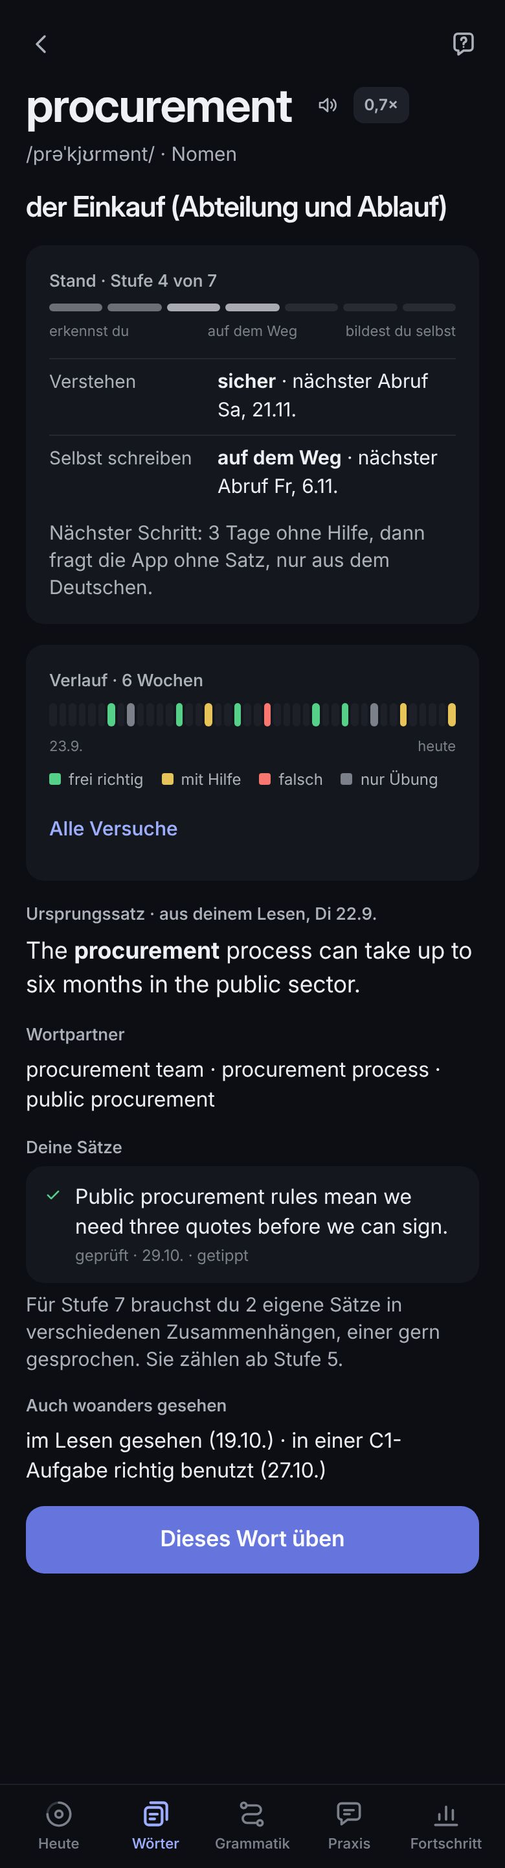
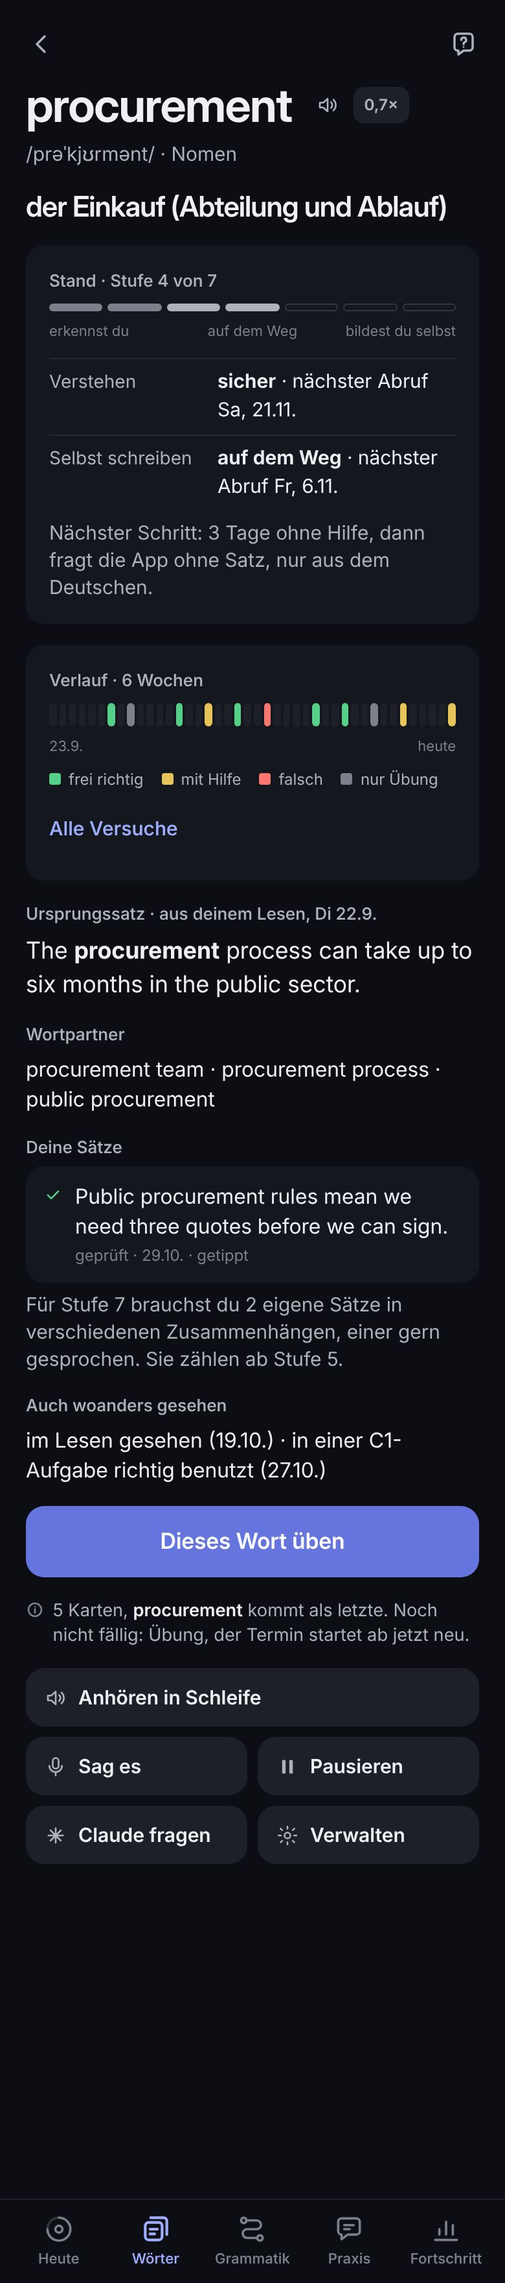
VB fertig: UX-Befunde Satz 2 eingearbeitet, Bericht mit offenen Fragen
Claude-Session: https://claude.ai/code/session_01JA41d6qQULedxVLfzkr6GX

diff --git a/docs/umbau/vokabeln/bilder/src/vb-screens.js b/docs/umbau/vokabeln/bilder/src/vb-screens.js
@@ -152,7 +152,7 @@ function vbPhone(v) {
       '<div class="card stack s8"><div class="lbl">Deutsch-Falle</div>' +
       '<div class="vb-pair"><b class="en">eventually</b><span>≠ eventuell</span><span class="vb-tag">kommt als Kontrast</span></div>' +
       '<p class="p2" style="margin:0">Kam 2-mal falsch in 30 Tagen. Die Kontrastkarte kommt in deiner nächsten Wörter-Runde.</p></div>' +
-      '<button class="btn pri full" id="ws-go">Paar jetzt üben</button></div>' + tabbar('h12');
+      '<button class="btn pri full" id="ws-go">affect üben</button></div>' + tabbar('h12');
   }
   /* ---------- B13 Muster mit Präposition (M78) ---------- */
   if (v === 'pattern') {
@@ -176,7 +176,7 @@ function vbPhone(v) {
       '<div class="stagec">' + VB.procSent(gapHtml('', { caret: true, input: true })) +
       '<div class="hintline">Gesucht: Einkauf (die Abteilung)</div></div></div>' + VB.tipBtns() +
       '<div class="scrim" style="background:transparent"></div><div class="menu vb-menu" id="ex-menu" role="menu">' +
-      '<div class="vb-whytoday"><div class="lbl">Warum heute?</div><p>Fällig seit 2 Tagen. Zuletzt richtig am 20.10., seitdem sinkt die Chance, dass du es noch weißt.</p><span>Selbst schreiben · Stufe 4 von 7</span></div><hr>' +
+      '<div class="vb-whytoday"><div class="lbl">Warum heute?</div><p>Fällig seit 2 Tagen. Selbst geschrieben zuletzt frei richtig am 20.10.; seitdem sinkt die Chance, dass du es noch weißt.</p><span>Selbst schreiben · Stufe 4 von 7</span></div><hr>' +
       '<button role="menuitem">' + ic('claude', 'sm') + 'Claude fragen</button>' +
       '<button role="menuitem">' + ic('trans', 'sm') + 'Übersetzer</button>' +
       '<button role="menuitem">' + ic('up', 'sm') + 'Zu leicht · kenne ich längst</button>' +
@@ -240,12 +240,13 @@ reg('vbh', {
     if (v !== 'card') {
       S.ui = {};
       /* Wörter-Block mit geschätzter Zeit aus dem Planer (14 statt fest 7 Min.); Ring und Summe rechnen mit. */
-      const orig = dayBlocks;
+      const orig = dayBlocks, origW = weekStrip;
       dayBlocks = kind => orig(kind).map(x => x.n === 'Wörter' ? Object.assign({}, x, { m: 14 }) : x);
+      weekStrip = (done) => origW(done, 1); /* heute = Di, 3.11. */
       try {
         return SCREENS.h1.render(v === 'ring' ? 'ring' : 'start')
           .replace(/(<span class="nm">Wörter<\/span><span class="sm num">)14 Min\./, (m, a) => v === 'ring' ? m : a + 'ca. 14 Min.');
-      } finally { dayBlocks = orig; }
+      } finally { dayBlocks = orig; weekStrip = origW; }
     }
     const b = VB.blocks();
     const lines = [['w', 'Gestern-Check', '3 Min.', 'done'], ['w', 'Wörter', 'ca. 14 Min.', 'next', '11 fällig · 3 neu · Anwenden'], ['g', 'Grammatik', '5 Min.'], ['l', 'Hören', '4 Min.'], ['s', 'Sag es', '4 Min.']];
@@ -318,7 +319,7 @@ function vbDetail(v) {
     '<div class="stack s6"><div class="lbl">Deine Sätze</div><div class="vb-own"><span class="vb-ok">' + ic('check', 'xs') + '</span><p class="en">Public procurement rules mean we need three quotes before we can sign.</p><span class="vb-ownm">geprüft · 29.10. · getippt</span></div>' +
     '<p class="p2" style="margin:0">Für Stufe 7 brauchst du 2 eigene Sätze in verschiedenen Zusammenhängen, einer gern gesprochen. Sie zählen ab Stufe 5.</p></div>' +
     '<div class="stack s6"><div class="lbl">Auch woanders gesehen</div><p class="p" style="margin:0">im Lesen gesehen (19.10.) · in einer C1-Aufgabe richtig benutzt (27.10.)</p></div>' +
-    '<button class="btn pri full">Dieses Wort üben</button></div>' + tabbar('h12');
+    wordActions().replace(/lead time/g, 'procurement') + '</div>' + tabbar('h12');
 }
 reg('vbd', { code: 'VBD', name: 'Wort-Detail (Entwurf)', kind: 'phone', variants: [['main', 'B2 Detail'], ['history', 'N5 Verlauf']], render: vbDetail });
 reg('vbdl', {
@@ -340,16 +341,17 @@ reg('vbdl', {
 
 /* B1 Dashboard: H34 Wörter + Karte „Die nächsten 14 Tage“ + Behaltensrate (N7) */
 function vbDash() {
-  const days = [['Di', 15, 1], ['Mi', 14], ['Do', 15], ['Fr', 13], ['Sa', 14], ['So', 0, 0, 1], ['Mo', 15], ['Di', 14], ['Mi', 15], ['Do', 14], ['Fr', 13], ['Sa', 15], ['So', 0, 0, 1], ['Mo', 14]];
+  const days = [['Di', 14, 1], ['Mi', 12], ['Do', 15], ['Fr', 13], ['Sa', 14], ['So', 0, 0, 1], ['Mo', 15], ['Di', 14], ['Mi', 15], ['Do', 14], ['Fr', 13], ['Sa', 15], ['So', 0, 0, 1], ['Mo', 14]];
   const fc = '<div class="card stack s8"><div class="lbl">Die nächsten 14 Tage · Minuten Wörter</div>' +
     '<div class="vb-fc" role="img" aria-label="Lernzeit je Tag, gleichmäßig um 14 Minuten, sonntags Ruhetag">' + days.map(d => '<div class="' + (d[2] ? 'on' : '') + (d[3] ? ' rest' : '') + '"><b class="num">' + (d[3] ? '–' : d[1]) + '</b><i style="height:' + (d[3] ? 3 : d[1] * 4) + 'px"></i><span>' + d[0] + '</span></div>').join('') + '</div>' +
     '<p class="p2" style="margin:0">Gleichmäßig um 14 Min., deine Zielzeit ist 15. Sonntag ist Ruhetag.</p></div>';
   const ret = '<div class="card stack s8"><div class="lbl">Behaltensrate · letzte 30 Tage</div><div class="ts-bign"><b class="disp num">89 %</b><span>Ziel 90 %</span></div>' +
     '<div class="vb-rt"><div><span>gefestigt</span><b class="num">93 %</b></div><div><span>jung</span><b class="num">86 %</b></div></div>' +
-    '<p class="p2" style="margin:0">So oft wusstest du ein fälliges Wort beim ersten Versuch. Passt zum Ziel.</p></div>';
-  const counts = '<div class="card stack s16"><div class="vb-two"><div><b class="disp num">46</b><span>bildest du selbst</span></div><div><b class="disp num">491</b><span>in deinem Wortschatz</span></div></div>' +
-    '<div class="ts-leg"><div><span class="ts-sw f5"></span><span>Bildest du selbst <em>S6–S7</em></span><b class="num">46</b></div><div><span class="ts-sw f34"></span><span>Auf dem Weg <em>S3–S5</em></span><b class="num">58</b></div><div><span class="ts-sw out"></span><span>Erkennst du <em>S1–S2</em></span><b class="num">387</b></div><div class="tot"><span></span><span>Alle Wörter</span><b class="num">491</b></div></div></div>';
-  return tsPage('h14-main', gearBtn(), tsProgNav('words') + tsTitle('Wörter', 'Gezählt wird nur, was du frei abrufst. Auswählen zählt nicht.') + counts + fc + ret, 'h14');
+    '<p class="p2" style="margin:0">So oft wusstest du ein fälliges Wort beim ersten Versuch. Knapp am Ziel.</p></div>';
+  const counts = '<div class="card stack s16"><div class="ts-bign"><b class="disp num">38</b><span>bildest du selbst</span></div>' +
+    '<div class="ts-leg"><div><span class="ts-sw f5"></span><span>Bildest du selbst <em>S6–S7</em></span><b class="num">38</b></div><div><span class="ts-sw f34"></span><span>Auf dem Weg <em>S3–S5</em></span><b class="num">41</b></div><div><span class="ts-sw out"></span><span>Erkennst du <em>S1–S2</em></span><b class="num">412</b></div><div class="tot"><span></span><span>Alle Wörter</span><b class="num">491</b></div></div></div>';
+  const w = tsWords(), z = w.indexOf('<div class="card stack s8"><div class="lbl">Zuwachs');
+  return tsPage('h14-main', gearBtn(), tsProgNav('words') + tsTitle('Wörter', 'Gezählt wird nur, was du frei abrufst. Auswählen zählt nicht.') + counts + fc + ret + (z > 0 ? w.slice(z) : ''), 'h14');
 }
 function vbDashAlt() {
   /* N7 mit Hinweis bei mehr als 5 Punkten Abweichung */
@@ -367,12 +369,12 @@ function vbApply(v) {
   const lage = '<div class="card stack s8"><div class="lbl">Mail an einen Kunden · freundlich, klar</div><p class="p" style="margin:0">Sag Mark, dass sich der Rollout auf nächste Woche verschiebt, weil die neuen Scanner länger brauchen, und bitte ihn, die Bestellung bis Freitag freizugeben.</p></div>';
   if (v === 'task') {
     return top + '<div class="stack s16" style="padding-top:16px">' + lage + VB.chips() +
-      '<div class="field en" style="min-height:150px">' + VB.mail + '<span class="caret" style="display:inline-block;width:2px;height:1em;background:var(--act-text);vertical-align:-2px;margin-left:1px"></span></div></div></div>' +
+      '<div class="field en vb-field">' + VB.mail + '<span class="caret" style="display:inline-block;width:2px;height:1em;background:var(--act-text);vertical-align:-2px;margin-left:1px"></span></div></div></div>' +
       exFoot('<button class="btn sec" aria-label="Diktieren">' + ic('mic', 'sm') + '</button>' + btnPri('apply-check', 'Prüfen'), true) + drawnKbd({ go: 'return' });
   }
   if (v === 'feedback') {
     const rows = [['near', 'postpone', 'Wort richtig, Präposition nicht: verschieben <i>auf</i> = <b>postpone to</b> oder <b>until next week</b>, nicht <i>on</i>.'], ['ok', 'lead time', 'richtig: die Zeit bis zur Lieferung.'], ['ok', 'sign off on', 'richtig: freigeben. Im US-Englisch meist <b>sign off on the order</b>; ohne <i>on</i> ist es britisch üblich und auch richtig.']];
-    return exTop(VB.blocks(), 1, 0.95) + '<div class="ex-body gx">' + blockLine('w', 'Wörter · <b>Anwenden</b> · geprüft von Claude') +
+    return exTop(VB.blocks(), 1, 0.95) + '<div class="ex-body gx">' + blockLine('w', 'Wörter · <b>Anwenden</b> · geprüft von Claude') + instr('Schreib 2–4 Sätze und benutze die drei Wörter.') +
       '<div class="stack s16" style="padding-top:14px">' + VB.chips(['near', 'ok', 'ok']) +
       '<div class="card en" style="font-size:16px;line-height:24px">Hi Mark, we have to <u class="vb-unear">postpone</u> the rollout <u class="vb-unear">on</u> next week. The <u class="vb-uok">lead time</u> for the new scanners is longer than planned. Could your team <u class="vb-uok">sign off</u> the order by Friday?</div>' +
       '<div class="card" style="padding:4px 16px">' + rows.map(r => '<div class="st vb-fr"><span class="vb-fi ' + r[0] + '">' + ic({ ok: 'check', near: 'near' }[r[0]], 'xs') + '</span><span class="vb-hrt"><b class="en">' + r[1] + '</b><span>' + r[2] + '</span></span></div>').join('') + '</div>' +
@@ -381,8 +383,8 @@ function vbApply(v) {
       exFoot(btnSec('apply-again', 'Nochmal selbst schreiben') + btnPri('apply-next', 'Weiter'));
   }
   /* offline: ohne Claude */
-  return exTop(VB.blocks(), 1, 0.95) + '<div class="ex-body gx">' + blockLine('w', 'Wörter · <b>Anwenden</b> · ohne Claude') +
-    '<div class="stack s16" style="padding-top:14px"><div class="notice">' + ic('offline', 'sm') + '<span><b>Claude ist gerade nicht erreichbar.</b> Vergleich selbst mit dem Muster. Das zählt nicht für den Plan, deine Termine bleiben.</span></div>' +
+  return exTop(VB.blocks(), 1, 0.95) + '<div class="ex-body gx">' + blockLine('w', 'Wörter · <b>Anwenden</b> · ohne Claude') + instr('Schreib 2–4 Sätze und benutze die drei Wörter.') +
+    '<div class="stack s16" style="padding-top:14px"><div class="notice">' + ic('offline', 'sm') + '<span><b>Claude ist gerade nicht erreichbar.</b> Vergleich selbst mit dem Muster. Deine Pflicht zählt trotzdem, nur die Termine der Wörter bleiben, wie sie sind.</span></div>' +
     '<div class="stack s6"><div class="lbl">Dein Text</div><p class="p en" style="margin:0">' + VB.mail + '</p></div>' +
     '<div class="card stack s8"><div class="lbl">Muster</div><p class="p en" style="margin:0">Hi Mark, we need to <b>postpone</b> the rollout <b>until</b> next week. The <b>lead time</b> for the new scanners is longer than expected. Could your team <b>sign off on</b> the order by Friday?</p></div>' +
     '<p class="p2" style="margin:0">Achte auf die fett gedruckten Wörter: Steht bei dir dasselbe?</p></div></div>' +
@@ -396,17 +398,17 @@ function vbOwn(v) {
   const lage = '<div class="card stack s8"><div class="lbl">Lage · im Call mit einem Kunden</div><p class="p" style="margin:0">Der Kunde fragt, warum die Umstellung nur drei Monate dauert. Erkläre, was ihr nutzt.</p></div>';
   const txt = 'We can leverage our existing templates, so the migration only takes three months.';
   if (v === 'task') {
-    return top + '<div class="stack s16" style="padding-top:16px">' + lage + '<div class="field en" style="min-height:120px">' + txt + '<span class="caret" style="display:inline-block;width:2px;height:1em;background:var(--act-text);vertical-align:-2px;margin-left:1px"></span></div>' +
-      '<p class="vb-quiet">' + ic('info', 'xs') + '<span>Nicht zu nah am Beispielsatz und nicht zu allgemein, sonst zählt er nicht.</span></p></div></div>' +
+    return top + '<div class="stack s16" style="padding-top:16px">' + lage + '<p class="vb-quiet">' + ic('info', 'xs') + '<span>Nicht zu nah am Beispiel, nicht zu allgemein.</span></p><div class="field en" style="min-height:120px">' + txt + '<span class="caret" style="display:inline-block;width:2px;height:1em;background:var(--act-text);vertical-align:-2px;margin-left:1px"></span></div>' +
+      '</div></div>' +
       exFoot('<button class="btn sec" aria-label="Diktieren">' + ic('mic', 'sm') + '</button>' + btnPri('own-check', 'Prüfen'), true) + drawnKbd({ go: 'return' });
   }
   if (v === 'noai') {
-    return top + '<div class="stack s16" style="padding-top:16px"><div class="notice">' + ic('offline', 'sm') + '<span><b>Claude ist gerade nicht erreichbar.</b> Vergleich selbst. Zählt nicht für Stufe 7, deine Termine bleiben.</span></div>' +
+    return top + '<div class="stack s16" style="padding-top:16px"><div class="notice">' + ic('offline', 'sm') + '<span><b>Claude ist gerade nicht erreichbar.</b> Vergleich selbst. Deine Pflicht zählt trotzdem; für Stufe 7 zählt der Satz erst nach einer Prüfung.</span></div>' +
       '<div class="stack s6"><div class="lbl">Dein Satz</div><p class="p en" style="margin:0">' + txt + '</p></div>' +
       '<div class="card stack s8"><div class="lbl">So benutzt man es</div><p class="p en" style="margin:0"><b>leverage</b> + etwas, das man schon hat: <i>leverage our experience, our data, existing templates</i></p></div></div></div>' +
       exFoot(btnSec('own-later', 'Später prüfen lassen') + btnPri('own-next', 'Weiter'));
   }
-  return exTop(VB.blocks(), 1, 0.75) + '<div class="ex-body gx' + '">' + blockLine('w', 'Wörter · <b>Eigener Satz</b> · geprüft von Claude') +
+  return exTop(VB.blocks(), 1, 0.75) + '<div class="ex-body gx' + '">' + blockLine('w', 'Wörter · <b>Eigener Satz</b> · geprüft von Claude') + instr('Schreib oder sag einen eigenen Satz mit <span class="en">leverage</span>.') +
     '<div class="stack s16" style="padding-top:14px"><div class="card en" style="font-size:17px;line-height:25px">We can <u class="vb-uok">leverage</u> our existing templates, so the migration only takes three months.</div>' +
     '<div class="card" style="padding:4px 16px">' +
     [['ok', 'Richtiger Sinn', '<span class="en">leverage</span> = etwas Vorhandenes gezielt nutzen. Passt.'], ['ok', 'Natürlich', 'So sagt man es im Call.'], ['ok', 'Wortpartner', '<span class="en">leverage existing templates</span> ist eine typische Verbindung.']]
@@ -423,10 +425,10 @@ function vbSettings() {
   return '<header class="phead gx"><div class="tw-hl"><button class="iconbtn" aria-label="Zurück" style="margin-left:-10px;margin-right:0">' + ic('chevL') + '</button><h1 class="disp">Wörter</h1></div></header>' +
     '<div class="scroll gx stack s24" style="padding-bottom:24px">' +
     '<div class="stack s8"><div class="lbl">Zielzeit für den Wörter-Block</div>' + seg(['10', '15', '20', '30'], 1) + '<p class="p2" style="margin:0">Minuten am Tag. Die App verteilt Wiederholungen so, dass es jeden Tag ungefähr so viel ist.</p></div>' +
-    '<div class="stack s8"><div class="lbl">Neue Wörter pro Lerntag</div>' + seg(['0', '2', '5', '10'], 2) + '<p class="p2" style="margin:0">Mindestens 2 kommen an jedem Lerntag, auch wenn viel fällig ist. Nur bei 0 keine.</p></div>' +
+    '<div class="stack s8"><div class="lbl">Neue Wörter pro Lerntag</div>' + seg(['0', '2', '5', '10'], 2) + '<p class="p2" style="margin:0">Bis zu so viele, wie in deine Zielzeit passen. Mindestens 2 an jedem Lerntag, auch wenn viel fällig ist; nur bei 0 keine.</p></div>' +
     '<div class="stack s8"><div class="lbl">Wie sicher sollen die Wörter sitzen?</div>' +
     '<div class="vb-safe">' + [['85 %', 'ca. 11 Min.', 0], ['90 %', 'ca. 15 Min.', 1], ['95 %', 'ca. 24 Min.', 0]].map(x => '<button class="' + (x[2] ? 'on' : '') + '"><b class="num">' + x[0] + '</b><span>' + x[1] + '</span></button>').join('') + '</div>' +
-    '<p class="p2" style="margin:0">Mehr Sicherheit heißt öfter wiederholen. Die Minuten gelten für deine 491 Wörter.</p></div>' +
-    '<div class="card" style="padding:4px 16px">' + sw('Anki-Modus', 'Aufdecken und selbst bewerten · wirkt nur auf Verstehen', false) + sw('Satz vor dem Prüfen anhören', 'Lücke als kurzer Ton', true) + '</div></div>' + tabbar('h12');
+    '<p class="p2" style="margin:0">Mehr Sicherheit heißt öfter wiederholen; die Minuten gelten für deine 491 Wörter. Deine Zielzeit hat Vorrang: Reicht sie nicht, kommen weniger neue Wörter (mindestens 2).</p></div>' +
+    '<div class="card" style="padding:4px 16px">' + sw('Anki-Modus', 'Aufdecken und selbst bewerten · wirkt nur auf Verstehen', false) + sw('Satz vor dem Prüfen anhören', 'Lücke als kurzer Ton', true) + '</div></div>' + tabbar('h14');
 }
 reg('vbe', { code: 'VBE', name: 'Einstellungen Wörter (Entwurf)', kind: 'phone', variants: [['main', 'B9']], render: vbSettings });

diff --git a/docs/umbau/vokabeln/bilder/src/vb.css b/docs/umbau/vokabeln/bilder/src/vb.css
@@ -28,7 +28,7 @@
 .vb-pair > span:not(.vb-tag) { font-size: 14px; }
 .vb-pair span { color: var(--fg-2); font-size: 15px; }
 .vb-tag { margin-left: auto; font-size: 13px !important; font-weight: 550; color: var(--fg-3) !important; white-space: nowrap; }
-.vb-tag.off { color: var(--fg-3) !important; background: var(--surface-2); }
+.vb-tag.off { color: var(--fg-3) !important; }
 .vb-menu { width: 300px; }
 .vb-whytoday { padding: 10px 12px 8px; display: flex; flex-direction: column; gap: 4px; }
 .vb-whytoday p { margin: 0; font-size: 15px; line-height: 21px; }
@@ -53,9 +53,10 @@
 .vb-dlt { display: flex; flex-direction: column; gap: 1px; font-size: 16px; line-height: 22px; }
 .vb-dlt .lbl { font-size: 12px; }
 .vb-stages { display: flex; gap: 4px; }
-.vb-stages i { flex: 1; height: 6px; border-radius: 3px; background: var(--surface-3); }
-.vb-stages i.on.g1 { background: color-mix(in oklch, var(--fg) 38%, var(--surface-3)); }
-.vb-stages i.on.g2 { background: color-mix(in oklch, var(--fg) 68%, var(--surface-3)); }
+.vb-stages i { flex: 1; height: 6px; border-radius: 3px; background: transparent; box-shadow: 0 0 0 1px var(--line-2) inset; }
+.vb-stages i.on { box-shadow: none; }
+.vb-stages i.on.g1 { background: var(--fg-3); }
+.vb-stages i.on.g2 { background: var(--fg-2); }
 .vb-stages i.on.g3 { background: var(--fg); }
 .vb-dband { gap: .5em; }
 .vb-dband .vb-mrow { grid-template-columns: 8em 1fr; }
@@ -88,10 +89,10 @@
 .vb-ok { color: var(--ok); margin-top: 3px; }
 .vb-fc { display: grid; grid-template-columns: repeat(14, 1fr); gap: 3px; align-items: end; padding-top: 6px; }
 .vb-fc div { display: flex; flex-direction: column; align-items: center; gap: 4px; }
-.vb-fc b { font-size: 10px; font-weight: 600; color: var(--fg-3); }
+.vb-fc b { font-size: 11px; font-weight: 650; color: var(--fg-2); }
 .vb-fc i { width: 100%; border-radius: 4px; background: var(--surface-3); }
 .vb-fc div.on i { background: var(--act); } .vb-fc div.on b, .vb-fc div.on span { color: var(--fg); }
-.vb-fc span { font-size: 10px; color: var(--fg-3); }
+.vb-fc span { font-size: 11px; color: var(--fg-2); }
 .vb-rt { display: grid; grid-template-columns: 1fr 1fr; gap: 8px; }
 .vb-rt div { display: flex; justify-content: space-between; padding: 10px 12px; border-radius: 10px; background: var(--surface-2); font-size: 14px; }
 .vb-rt span { color: var(--fg-2); }
@@ -119,3 +120,4 @@
 [data-mode="light"] .band.s-ok, [data-mode="light"] .dverdict.s-ok { background: color-mix(in srgb, var(--surface) 90%, var(--ok)); }
 [data-mode="light"] .band.s-near, [data-mode="light"] .dverdict.s-near { background: color-mix(in srgb, var(--surface) 86%, var(--near)); }
 [data-mode="light"] .band.s-bad, [data-mode="light"] .dverdict.s-bad { background: color-mix(in srgb, var(--surface) 91%, var(--bad)); }
+.vb-field { height: 128px; min-height: 0; overflow: hidden; -webkit-mask-image: linear-gradient(to bottom, #000 78%, transparent); mask-image: linear-gradient(to bottom, #000 78%, transparent); }

diff --git a/docs/umbau/berichte/vb.md b/docs/umbau/berichte/vb.md
@@ -2,29 +2,51 @@
 
 Stand 01.11.2026 · Zweig `claude/umbau-vb` (vom Stand `731cabf` auf `claude/umbau-fokus`) · Auftrag `docs/umbau/auftraege/vb.md`
 
-**Zwischenstand: Satz 1 fertig (vor V3).** Prüfung english-teacher und ux-reviewer läuft; Korrekturen und Satz 2 folgen in diesem Zweig.
-
 ## Kurzfassung für Emrah
-1. Die ersten 24 Bilder der neuen Wörter-Übung sind fertig, im Aussehen der Vorschau, die du abgenommen hast.
-2. Neu ist vor allem das Ergebnis-Band: Es zeigt bei einem Tippfehler genau den fehlenden Buchstaben, immer ein „Warum“, zwei Wortpartner und wann das Wort wiederkommt.
-3. Neue Wörter versuchst du erst kurz selbst, dann deckst du auf; „Kenne ich schon“ wird mit einer kurzen Probe geprüft.
-4. Dazu: „Das wusste ich eigentlich“, der Fall „Wort richtig, Partner falsch“, Kontrastkarten für Verwechsler, „Warum heute?“ im Menü, der Wörter-Start mit Minuten, der Abschluss und die ruhige Rückkehr nach einer Pause.
-5. Die Übersicht mit allen Bildern steht in `docs/umbau/vokabeln/bilder/README.md`.
+1. Du kannst jetzt 39 Bilder der neuen Wörter-App ansehen, bevor sie gebaut wird. Sie sehen aus wie die Vorschau, die du abgenommen hast.
+2. In der Übung siehst du nach jeder Antwort ein Band. Es zeigt bei einem Tippfehler genau den fehlenden Buchstaben und immer ein „Warum“, auch wenn du richtig liegst. Dazu kommen zwei Wortpartner und der Tag, an dem das Wort wiederkommt.
+3. Ein neues Wort versuchst du erst kurz selbst, dann deckst du es auf. Tippst du „Kenne ich schon“, prüft dich die App kurz.
+4. Dazu gibt es „Das wusste ich eigentlich“, den Fall „Wort richtig, Partner falsch“, Karten für Wörter, die man leicht verwechselt, und „Warum heute?“ im Menü. Auch der Start mit Minuten, der Abschluss und eine ruhige Rückkehr nach einer Pause sind dabei.
+5. Auf der Seite eines Wortes siehst du getrennt, wie gut du es verstehst und wie gut du es selbst schreibst. Dazu kommen ein Balken mit 7 Stufen und ein Verlauf über 6 Wochen.
+6. In der Übersicht steht, wie viele Minuten die nächsten 14 Tage dauern und wie viel du wirklich behältst.
+7. Neu ist „Anwenden“: Du schreibst eine kurze Mail mit drei deiner Wörter, und Claude prüft jedes Wort einzeln. Ohne Claude vergleichst du selbst mit einem Muster. Deine Pflicht zählt dann trotzdem, deine Termine bleiben gleich.
+8. Wo ich mehr vorschlage als die Vorschau, liegen beide Fassungen nebeneinander. Die Übersicht steht in `docs/umbau/vokabeln/bilder/README.md`.
 
 ## ok
-ja (Satz 1), Prüfung läuft.
+**ja.** Alle Bilder aus dem Auftrag (Satz 1 und Satz 2) liegen vor. Der Lehrer hat zweimal gegengelesen und alles ist eingearbeitet. Dazu kamen eine UX-Prüfung und eine gezielte Nachprüfung, deren Befunde ebenfalls eingearbeitet sind. Kein Blocker.
 
 ## commit
-siehe Zweig `claude/umbau-vb`
+`bba67ba` (Zwischenstand), Endstand: letzter Commit auf `claude/umbau-vb` (Nachricht „VB fertig …“).
+
+## Was entstanden ist
+- `docs/umbau/vokabeln/bilder/README.md`: Bild → was es zeigt → Methode/Plan-Abschnitt → was Emrah entscheidet; dazu die Regeln, die über alle Bilder gleich gelten.
+- `docs/umbau/vokabeln/bilder/s1-*.jpg` (26), `s2-*.jpg` (13), `vergleich-*.jpg` (6, links Vorschau, rechts Vorschlag).
+- `docs/umbau/vokabeln/bilder/src/`: `vb-screens.js` und `vb.css` (die Entwürfe auf den Bausteinen der Vorschau), `build.mjs` (baut eine Datei ins Scratchpad, liest `docs/relaunch/vorschau/src` nur), `shoot.mjs` und `shots.json` (Fotos per Playwright), `vergleich.py` (Bildpaare). Kein App-Code, nichts außerhalb von `bilder/**` und diesem Bericht geändert, kein Artefakt veröffentlicht.
 
 ## befunde
-- (folgen nach english-teacher und ux-reviewer)
+1. **Hell-Modus: „fast richtig“ wird rosa statt gelb, auch in der Vorschau und vermutlich in der App** (ux-reviewer). Ursache: `color-mix(in oklch, var(--surface) 90%, var(--near))` mischt mit Weiß (`oklch(1 0 0)`, Farbton 0 = Rot) und zieht den Ton Richtung Rot. Damit ist das Band „fast“ in Hell kaum von „falsch“ zu unterscheiden. In den Bildern ist es mit `in srgb` gelöst (`vb.css`, Ende). **Für D5/V3:** die Zustandsflächen in `src/styles/parts/v-uebung.css`/`band.css` prüfen, die gleiche Mischung wie in `docs/relaunch/vorschau/src/style.css:276–278` (nur gemeldet, Besitz D5).
+2. Teile der Vorschau widersprechen dem Wörter-Plan und sind in den Bildern angepasst: „Zu leicht“ prüft nach **7** statt 30 Tagen (M16), die Stufen heißen S1–S7 statt S0–S5 (W2), die Wörter-Zeit auf Heute ist eine Schätzung (14 Min.) statt fest 7 Min. (B8).
+3. english-teacher, Durchgang 1: 15 Befunde, alle umgesetzt, z. B. eindeutige Lücken (renew/extend, eventually), „purchasing“ als „Auch richtig“, „make a presentation“ als Partner, Warum mit Wortart, keine Fachwörter („Spur Benutzen“ → „Selbst schreiben“). Durchgang 2: 12 Befunde, alle umgesetzt, z. B. *sign off the order* (ohne *on*) gilt als richtig (britisch üblich), dafür zeigt das Anwenden-Bild den typischen Fehler *postpone on next week* → *postpone to / until*. Neue Wörter von heute stehen nicht zugleich auf Stufe 4–6.
+4. ux-reviewer, Durchgang 1 (Satz 1): 6 Muss- und 9 Soll-Befunde, alle umgesetzt, z. B. „War das auch richtig?“ wieder in jedem Fehler-Band und „Das wusste ich eigentlich“ als ruhiger Link darunter; keine Lösung vor dem Prüfen; Lösung nach dem Aufdecken neutral statt grün; nur der falsche Teil rot; Zähler und Minuten stimmig. Nachprüfung Satz 1 und erste Prüfung Satz 2: 2 offene Stellen aus Satz 1 und 6 Muss- und 9 Soll-Befunde für Satz 2, alle umgesetzt, z. B. die Wochenleiste auf Di, das Wort-Detail mit allen Aktionen der Vorschau, das Dashboard mit einer großen Zahl wie die Vorschau und Zuwachs/Vorher-Nachher darunter, gleiche Minuten in allen Bildern (heute 14, morgen 12), die Regel „Zielzeit hat Vorrang“ in den Einstellungen und „Deine Pflicht zählt trotzdem“ ohne Claude.
 
 ## zahlen
-- Satz 1: 25 Bilder (390 px Dunkel, Lernkarte und Band zusätzlich Hell und Laptop 1440) + 5 Vergleiche Vorschau ↔ Vorschlag.
+- 39 Bilder: Satz 1 = 26, Satz 2 = 13, dazu 6 Vergleiche. Handy 390 px Dunkel. Lernkarte, Band und Wort-Detail zusätzlich in Hell und am Laptop 1440. Größe 5,4 MB (JPEG, Qualität 80).
+- Bildliste: `src/shots.json`. Alle Bilder entstehen in einem Lauf neu (ca. 1 Min.).
 
 ## nicht_gelaufen
-- (noch offen: Prüfungen, Satz 2)
+- Keine zweite UX-Nachprüfung der Satz-2-Korrekturen. Nach der Regel „eine Prüfung, eine gezielte Nachprüfung“ war die Nachprüfung schon mit der ersten Satz-2-Prüfung zusammengelegt. Ich habe die Korrekturen selbst an den neuen Bildern geprüft.
+- Kein Gedämpft-Modus und kein Englisch: Der Auftrag verlangt Dunkel, für die Lernkarte, das Band und das Wort-Detail zusätzlich Hell und 1440.
+- Keine App-Tests, weil es keinen App-Code gibt.
+- Ton, Diktat und Tastatur sind gezeichnet, nicht bedienbar (reine Bild-Entwürfe).
 
 ## offene_fragen
-- (folgen mit dem Endbericht)
+Je mit Empfehlung. Die Bilder sind mit der Empfehlung gebaut.
+1. **Neues Wort: erst kurz selbst versuchen, dann aufdecken** (`s1-01`, `s1-02`), oder die Lösung wie in der Vorschau sofort zeigen? **Empfehlung: erst versuchen.** Ein Versuch, auch ein falscher, hilft beim Behalten (M36). „Kenne ich schon“ prüft dich kurz (`s1-03`).
+2. **Ergebnis-Band mit Buchstaben-Vergleich, „Warum“, 2 Wortpartnern und „Kommt wieder: …“** (`vergleich-band-fast.jpg`, `vergleich-band-falsch.jpg`). Es wird dadurch etwa zwei Zeilen höher als in der Vorschau. **Empfehlung: ja.** So siehst du genau, was falsch war, und wann das Wort zurückkommt.
+3. **Wörter-Zeit auf Heute als Schätzung**, die von Tag zu Tag schwanken kann (`s1-21b`, `s1-22`: „ca. 14 Min.“), statt fest 7 Minuten? **Empfehlung: ja, Schätzung.** Die 14-Tage-Vorschau hält die Schwankung klein (`s2-05`).
+4. **Spur „Benutzen“ heißt in der App „Selbst schreiben“** (`s2-01`: „Verstehen · sicher“ / „Selbst schreiben · auf dem Weg“)? **Empfehlung: ja.** Das ist klarer als „Benutzen“ und passt zu „bildest du selbst“.
+5. **Anwenden ohne Claude: Knopf „Später prüfen lassen“** (`s2-09`, `s2-12`). Der Text wird gespeichert und geprüft, sobald Claude wieder erreichbar ist. Erst dann wirkt er auf deinen Plan. **Empfehlung: ja.** Sonst geht ein guter Satz für Stufe 7 verloren.
+6. **Behaltensrate deutlich unter dem Ziel** (`s2-06`): Darf die App dann selbst junge Wörter etwas früher planen und dir das als Hinweis mit Minuten sagen? **Empfehlung: ja, mit Hinweis.** Die Zielzeit hat weiter Vorrang.
+
+## Schlussmeldung
+VB fertig. Der Überchat zeigt Emrah die Bilder (README) und stellt die sechs Fragen im Frage-Dialog. Danach kann V3 mit den abgesegneten Bildern starten.

diff --git a/docs/umbau/vokabeln/bilder/README.md b/docs/umbau/vokabeln/bilder/README.md
@@ -36,11 +36,11 @@ Dateinamen: `s<Satz>-<Nr>-<Bild>-<Breite>-<Modus>.jpg`. `vergleich-*.jpg` = link
 
 | Bild | Was es zeigt | Methode / Plan | Was Emrah entscheidet |
 |---|---|---|---|
-| `s2-01` B2 Wort-Detail (Dunkel), `s2-02` (Hell) | Stufenbalken mit 7 Teilen in 3 Tönen (erkennst du · auf dem Weg · bildest du selbst), darunter **zwei Spuren**: „Verstehen · sicher · nächster Abruf Sa, 21.11.“ / „Selbst schreiben · auf dem Weg · nächster Abruf Fr, 6.11.“, nächster Schritt in Worten; Verlauf-Zeitleiste; Ursprungssatz; Wortpartner; Deine Sätze; auch woanders gesehen (N6) | B2, M66, M7, W2, N5, N6 · `vergleich-wort-detail.jpg` | Spur „Benutzen“ heißt für Emrah „Selbst schreiben“? |
+| `s2-01` B2 Wort-Detail (Dunkel), `s2-02` (Hell) | darunter alle Aktionen der Vorschau (Dieses Wort üben mit Hinweis, Anhören in Schleife, Sag es, Pausieren, Claude fragen, Verwalten); Stufenbalken mit 7 Teilen in 3 Tönen (erkennst du · auf dem Weg · bildest du selbst), darunter **zwei Spuren**: „Verstehen · sicher · nächster Abruf Sa, 21.11.“ / „Selbst schreiben · auf dem Weg · nächster Abruf Fr, 6.11.“, nächster Schritt in Worten; Verlauf-Zeitleiste; Ursprungssatz; Wortpartner; Deine Sätze; auch woanders gesehen (N6) | B2, M66, M7, W2, N5, N6 · `vergleich-wort-detail.jpg` | Spur „Benutzen“ heißt für Emrah „Selbst schreiben“? |
 | `s2-03` N5 Verlauf | Zeitleiste 6 Wochen (ein Feld je Tag: grün frei, gelb mit Hilfe, rot falsch, grau nur Übung) und Liste der Versuche mit Wirkung („keine Wirkung auf den Plan“, „Aufstieg auf Stufe 4“) | N5, `vlog` | Zeitleiste mit Feldern statt Punkten? |
 | `s2-04` Laptop 1440 | Wort-Detail auf der Bühne, rechts Üben, Wortpartner, Deine Sätze, Belege | B2 | – |
-| `s2-05` B1 Dashboard | zwei Zahlen aktiv/passiv, Gruppen S1–S7, **Die nächsten 14 Tage in Minuten** (Sonntag flach), **Behaltensrate 89 % (Ziel 90 %) · gefestigt 93 % · jung 86 %** | B1, M63, M18, N7 · `vergleich-dashboard.jpg` | – |
-| `s2-06` N7 Abweichung | Mehr als 5 Punkte unter dem Ziel: Hinweis in Worten mit Folge („ca. 2 Min. mehr am Tag“) | N7 | Darf die App bei Abweichung selbst nachsteuern (mit Hinweis)? |
+| `s2-05` B1 Dashboard | eine große Zahl wie die Vorschau (38 bildest du selbst), Gruppen S1–S7, **Die nächsten 14 Tage in Minuten** (Sonntag flach), **Behaltensrate 89 % (Ziel 90 %) · gefestigt 93 % · jung 86 %**; darunter unverändert Zuwachs, Vorher-Nachher und die Wege der Vorschau | B1, M63, M18, N7 · `vergleich-dashboard.jpg` | – |
+| `s2-06` N7 Abweichung | Zweiter, gedachter Fall (83 % statt 89 %): mehr als 5 Punkte unter dem Ziel: Hinweis in Worten mit Folge („ca. 2 Min. mehr am Tag“) | N7 | Darf die App bei Abweichung selbst nachsteuern (mit Hinweis)? |
 | `s2-07` B7 Anwenden | Lage auf Deutsch (Mail an Kunden), 3 Zielwörter als Chips in der Grundform, Textfeld, Diktat, „Prüfen“ | B7, Emrah 4.5, `plan.md` §7 | – |
 | `s2-08` B7 Rückmeldung | je Zielwort ✓/~ mit einem Satz, Markierung im Text, „So ginge es natürlicher“ (nur 1 Korrektur), Wirkung auf den Plan in Worten; „War das auch richtig?“ | B7, M32, `synthese.md` §2.5 | – |
 | `s2-09` B7 ohne Claude | Hinweis, Muster zum Selbstvergleich, **zählt nicht für den Plan**; „Später prüfen lassen“ | B7, W6 | „Später prüfen lassen“ anbieten (Text wird gespeichert und nachgeprüft)? |
@@ -48,3 +48,10 @@ Dateinamen: `s<Satz>-<Nr>-<Bild>-<Breite>-<Modus>.jpg`. `vergleich-*.jpg` = link
 | `s2-11` B6 Rückmeldung | Sinn · natürlich · Wortpartner je mit ✓ und Begründung; „1 von 2 eigenen Sätzen für Stufe 7“; „Nochmal selbst schreiben“ | B6, Stufe 7 (Emrah 30.10. Nr. 4) | – |
 | `s2-12` B6 ohne Claude | Hinweis, „So benutzt man es“, zählt nicht für Stufe 7 | B6, W6 | – |
 | `s2-13` B9 Einstellungen | Zielzeit 10/15/20/30 Min. (Standard 15), neue Wörter 0/2/5/10 (mind. 2), Sicherheit 85/90/95 % **mit Minuten**, Anki-Modus (nur Verstehen), Satz vor dem Prüfen anhören | B9, M17, Emrah F3/F5 | – |
+
+## Regeln, die in mehreren Bildern gleich gelten
+- **Farbe des Urteils:** grün = richtig, gelb = fast richtig oder nur ein Teil fehlt (Tippfehler, fehlende oder falsche Präposition: Note „Hard“), rot = falsch oder falscher Wortpartner (*hold* statt *give a presentation*: Note nach M56). Deshalb ist *postpone on* in `s2-08` gelb und *hold a presentation* in `s1-15` rot.
+- **Nach einem Fehler:** immer „Mehr“ und „War das auch richtig?“, darunter leise „Das wusste ich eigentlich“; ein Hauptknopf „Weiter“.
+- **Nichts vor dem Prüfen verraten:** Kontraste und Regeln erst im Band (wie D3).
+- **Zahlen über alle Bilder:** heute Di, 3.11.; Wörter heute ca. 14 Min. (11 fällig, 3 neue, Anwenden), morgen ca. 12 Min.; Einstellung „bis zu 5 neue“, heute 3, weil viel fällig ist; mindestens 2 an jedem Lerntag.
+- **Hell-Modus:** Zustandsflächen werden in sRGB gemischt; mit der Mischung der Vorschau (`oklch`) wird „fast richtig“ in Hell rosa statt gelb (siehe Bericht).
